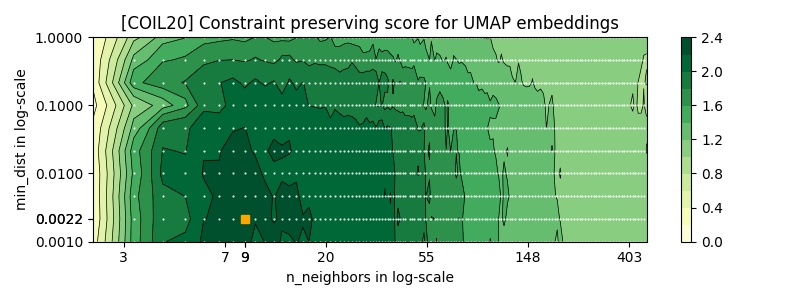
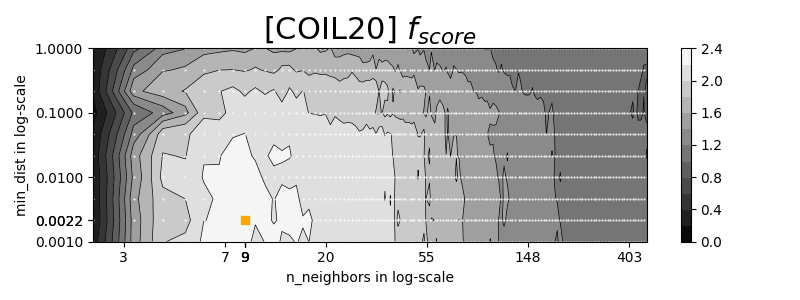
update function to plot score density 2D for umap

diff --git a/code/bo_plot.py b/code/bo_plot.py
@@ -7,8 +7,8 @@ import matplotlib.pyplot as plt
 from matplotlib import gridspec
 from matplotlib.ticker import FuncFormatter
 
+import utils
 from bayes_opt import UtilityFunction
-from utils import generate_value_range
 
 
 def _plot_acq_func(ax, util_func, list_params, utility_values, next_best_guess_param):
@@ -272,7 +272,7 @@ def plot_bo_one_param_summary(
     # ax.xaxis.grid(linestyle="--", alpha=0.3)
 
     # show param in log scale in xaxis
-    list_params_to_show = generate_value_range(
+    list_params_to_show = utils.generate_value_range(
         min_val=min(list_params), max_val=max(list_params), num=9, range_type="log", dtype=int
     )
     ax.set_xlim(left=min(list_params), right=max(list_params))
@@ -281,9 +281,7 @@ def plot_bo_one_param_summary(
     ax.set_xlabel(f"{param_name} in log-scale")
 
     # plot text for best param
-    ax.text(
-        x=best_param, y=1.1 * ax.get_ylim()[0], ha="center", s=f"{int(np.exp(best_param))}"
-    )
+    ax.text(x=best_param, y=1.1 * ax.get_ylim()[0], ha="center", s=f"{int(np.exp(best_param))}")
 
     # hint text for the top hightest scores horizontal line
     pivot = threshold * max(pred_mu)
@@ -305,28 +303,30 @@ def plot_bo_one_param_summary(
 
 
 def plot_density_2D(
+    dataset_name: str = "",
     input_score_name: str = "umap_scores",
     target_key_name: str = "qij_score",
     title: str = "",
-    log_dir: str = "",
     score_dir: str = "",
-    plot_dir: str = "",
+    plot_dir=None,
     contour_levels=10,
-    contour_cmap="YlGn",
+    contour_cmap="gray",
+    ax=None,
+    fig=None,
 ):
     # plot contour/contourf guide:
     # https://matplotlib.org/3.1.1/gallery/images_contours_and_fields/irregulardatagrid.html#sphx-glr-gallery-images-contours-and-fields-irregulardatagrid-py
 
     df = pd.read_csv(f"{score_dir}/{input_score_name}.csv")
-    print(df)
+    # print(df)
 
     Z = df.pivot(index="min_dist", columns="n_neighbors", values=target_key_name)
-    print(Z)
+    # print(Z)
 
     min_dist_values = Z.index.to_numpy()
     n_neighbors_values = Z.columns.to_numpy()
     Z = Z.to_numpy()
-    print(Z.shape, min_dist_values.shape, n_neighbors_values.shape)
+    # print(Z.shape, min_dist_values.shape, n_neighbors_values.shape)
 
     # get the row of max value
     best_param = df.loc[df[target_key_name].idxmax()]
@@ -337,10 +337,11 @@ def plot_density_2D(
     print(best_n_neighbors, best_min_dist, best_score)
 
     X, Y = np.meshgrid(n_neighbors_values, min_dist_values)
-    print(X.shape, Y.shape)
+    # print(X.shape, Y.shape)
 
-    fig, ax = plt.subplots(1, 1, figsize=(8, 3))
-    ax.set_title(f"[{dataset_name}] {title} for UMAP embeddings")
+    if ax is None or fig is None:
+        fig, ax = plt.subplots(1, 1, figsize=(8, 3))
+    ax.set_title(f"[{dataset_name}] {title}", fontsize=22)
 
     # contour for score
     ax.contour(X, Y, Z, levels=contour_levels, linewidths=0.5, colors="k")
@@ -360,14 +361,15 @@ def plot_density_2D(
     ax.xaxis.set_major_formatter(mpl.ticker.ScalarFormatter())
     ax.yaxis.set_major_formatter(mpl.ticker.ScalarFormatter())
     ax.set_yticks([0.001, 0.01, 0.1, 1.0] + [best_min_dist] * 2)
-    ax.set_xticks(np.append(ax.get_xticks(), [best_n_neighbors] * 2))
+    ax.set_xticks(np.append(ax.get_xticks(), [best_n_neighbors] * 4))
 
     # plot best param
     ax.plot(best_n_neighbors, best_min_dist, "s", c="orange")
 
-    plt.tight_layout()
-    plt.savefig(f"{plot_dir}/2D/{target_key_name}.png")
-    plt.close()
+    if plot_dir is not None:
+        plt.tight_layout()
+        plt.savefig(f"{plot_dir}/2D/{target_key_name}.png")
+        plt.close()
 
 
 def plot_prediction_density_2D(
@@ -376,7 +378,6 @@ def plot_prediction_density_2D(
     list_min_dist,
     title: str = "",
     threshold=0.96,
-    log_dir: str = "",
     score_dir: str = "",
     plot_dir: str = "",
     contour_levels=10,
@@ -472,7 +473,7 @@ def plot_prediction_density_2D(
     ax0 = plt.subplot(gs[0, 0], sharex=ax)
     ax0.set_title("Score by n_neighbors")
     score_by_n_neighbors = Z.mean(axis=0)
-    plt_score_by_n_neighbors, = ax0.plot(list_n_neigbors, score_by_n_neighbors)
+    (plt_score_by_n_neighbors,) = ax0.plot(list_n_neigbors, score_by_n_neighbors)
     plt.setp(ax0.get_xticklabels(), visible=False)
 
     # determine best param range and best param value
@@ -487,7 +488,7 @@ def plot_prediction_density_2D(
     ax1 = plt.subplot(gs[1, 1], sharey=ax)
     ax1.set_title("Score by min_dist")
     score_by_min_dist = Z.mean(axis=1)
-    plt_score_by_min_dist, = ax1.plot(score_by_min_dist, list_min_dist)
+    (plt_score_by_min_dist,) = ax1.plot(score_by_min_dist, list_min_dist)
     plt.setp(ax1.get_yticklabels(), visible=False)
 
     # determine best param range and best param value
@@ -514,31 +515,40 @@ def plot_prediction_density_2D(
     plt.close()
 
 
+def plot_density_for_all_datasets(list_datasets=[], list_scores=[]):
+    n_rows = len(list_datasets)
+    n_cols = len(list_scores)
+    fig, axes = plt.subplots(n_rows, n_cols, figsize=(n_cols * 6, n_rows * 3))
+
+    for row_idx, dataset_name in enumerate(list_datasets):
+        for col_idx, (input_score_name, target_key_name) in enumerate(list_scores):
+            print(dataset_name, input_score_name, target_key_name)
+            plot_density_2D(
+                dataset_name=utils.get_dataset_display_name(dataset_name),
+                input_score_name=input_score_name,
+                target_key_name=target_key_name,
+                title=utils.get_score_display_name(target_key_name),
+                score_dir=f"./scores/{dataset_name}/umap/qij",
+                plot_dir=f"./plots/{dataset_name}/umap",
+                # ax=axes[row_idx, col_idx],
+                fig=fig,
+            )
+    fig.tight_layout()
+    fig.savefig("./plots/umap2D_compare.png")
+    plt.close(fig)
+
+
 if __name__ == "__main__":
     # note to make big font size for plots in the paper
     plt.rcParams.update({"font.size": 10})
 
-    dataset_name = "FASHION1000"
-    method_name = "umap"
-    score_name = "qij"
-    log_dir = f"./logs/{dataset_name}/{method_name}/{score_name}"
-    score_dir = f"./scores/{dataset_name}/{method_name}/{score_name}"
-    plot_dir = f"./plots/{dataset_name}/{method_name}"
-
-    plot_density_2D(
-        input_score_name="umap_scores",
-        target_key_name="qij_score",
-        title="Constraint preserving score",
-        log_dir=log_dir,
-        score_dir=score_dir,
-        plot_dir=plot_dir,
-    )
-
-    plot_density_2D(
-        input_score_name="umap_metrics",
-        target_key_name="auc_rnx",
-        title="$AUC_{log}RNX$ score",
-        log_dir=log_dir,
-        score_dir=score_dir,
-        plot_dir=plot_dir,
-    )
+    list_datasets = [
+        "DIGITS",
+        "COIL20",
+        "FASHION1000",
+        "FASHION_MOBILENET",
+        "20NEWS5",
+        "NEURON_1K",
+    ]
+    list_scores = [("umap_scores", "qij_score"), ("umap_metrics", "auc_rnx")]
+    plot_density_for_all_datasets(list_datasets, list_scores)

diff --git a/code/utils.py b/code/utils.py
@@ -149,6 +149,16 @@ def get_param_display_name(method_name):
     }.get(method_name, method_name)
 
 
+def get_score_display_name(score_name):
+    return {
+        "qij": "$f_{score}$",
+        "qij_score": "$f_{score}$",
+        "f_score": "$f_{score}$",
+        "auc_rnx": "$AUC_{log}RNX$",
+        "bic": "BIC-based score",
+    }.get(score_name, score_name)
+
+
 if __name__ == "__main__":
     values = generate_value_range(
         min_val=2, max_val=1796 // 3, num=150, range_type="log", dtype=int
